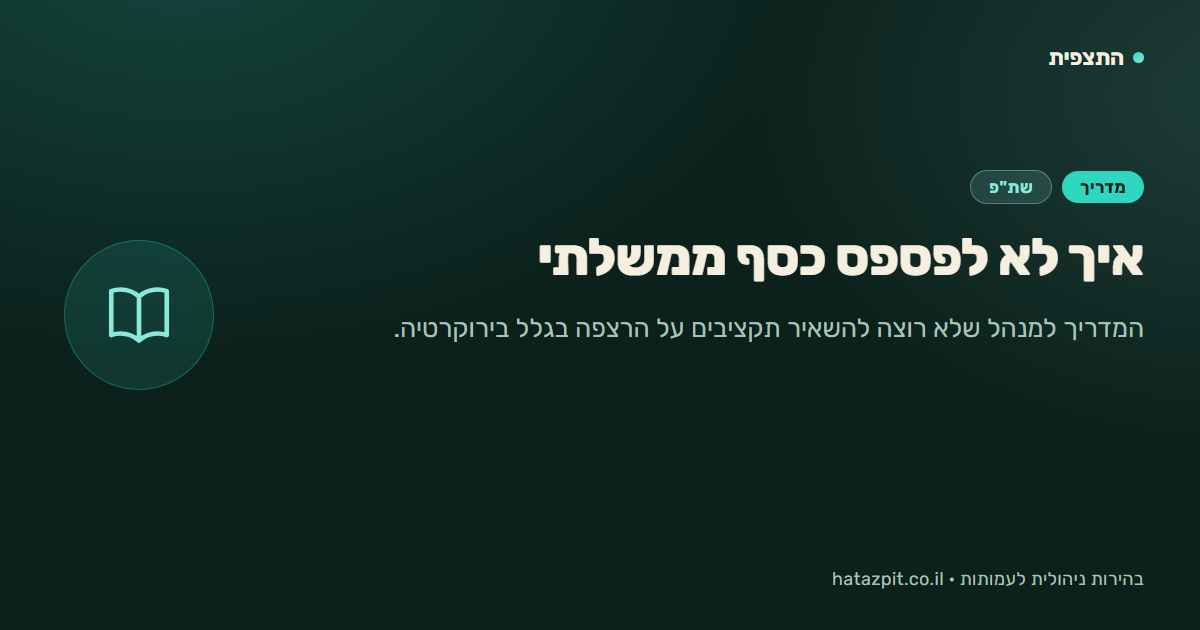
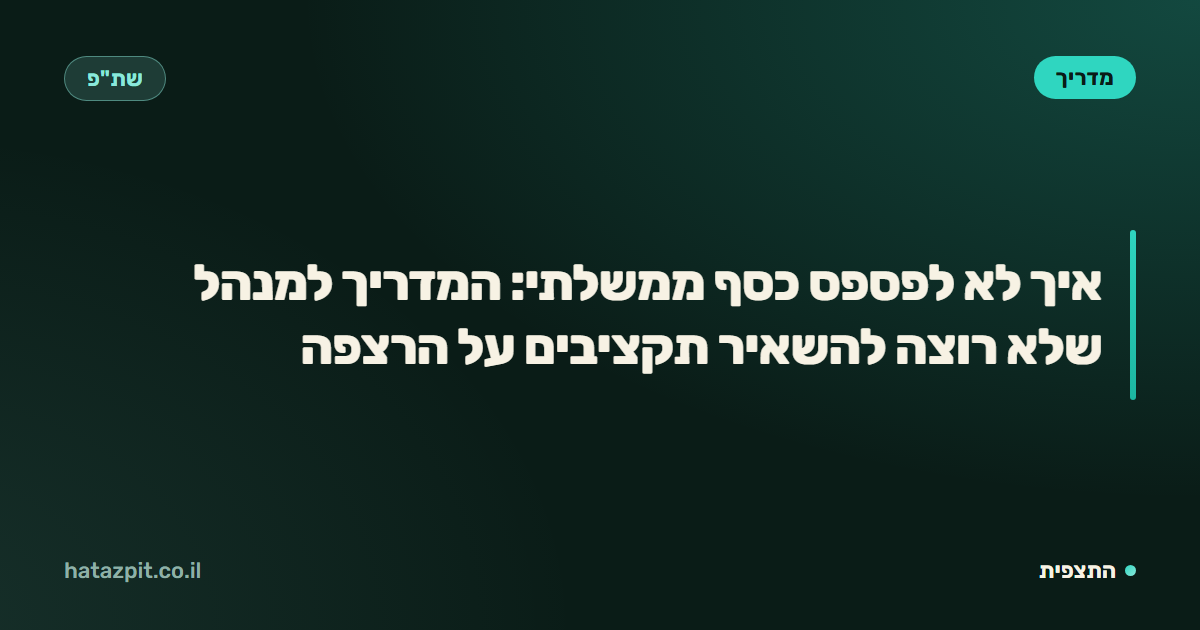
Redesign OG share cards with bigger, dominant title text
Drop the small badges/icon layout in favor of one large bold headline
that fills the card, since that's the split-second a scrolling reader
decides whether to stop. Also lengthen og:title to the full article
headline and collapse og:description to one uniform tagline across
pages, so the WhatsApp preview reads as one strong line instead of two
competing ones.

diff --git a/budget-guide.html b/budget-guide.html
@@ -7,8 +7,8 @@
 <meta name="description" content="חוברת קריאה חינמית: 10 האתגרים, 3 המנועים והשיטה לא לפספס תקציב ממשלתי שמגיע לעמותה שלכם.">
 <meta property="og:type" content="article">
 <meta property="og:url" content="https://hatazpit.co.il/budget-guide.html">
-<meta property="og:title" content="למה מנהלים מוותרים על תקציבים ממשלתיים — חוברת חינמית">
-<meta property="og:description" content="10 האתגרים ו-3 המנועים שגורמים למנהלים לוותר בלי לדעת — חוברת חינמית לקריאה שלמה.">
+<meta property="og:title" content="10 האתגרים ו-3 המנועים שגורמים למנהלים לוותר על תקציב שמגיע להם">
+<meta property="og:description" content="בהירות ניהולית לעמותות — מרכז ידע חינמי מבית התצפית">
 <meta property="og:image" content="https://hatazpit.co.il/assets/og/budget-guide.png">
 <meta property="og:image:width" content="1200">
 <meta property="og:image:height" content="630">

diff --git a/knowledge/how-to-apply-for-support.html b/knowledge/how-to-apply-for-support.html
@@ -7,8 +7,8 @@
 <meta name="description" content="מדריך מלא לעמותות: שמונה שלבים להגשת בקשת תמיכה מהרשות המקומית בהצלחה.">
 <meta property="og:type" content="article">
 <meta property="og:url" content="https://hatazpit.co.il/knowledge/how-to-apply-for-support.html">
-<meta property="og:title" content="איך מגישים בקשה לתמיכה מהרשות המקומית">
-<meta property="og:description" content="שמונה שלבים להגשה נכונה — מה חוזר בכל קריטריון, ואיך לא להיפסל.">
+<meta property="og:title" content="איך מגישים בקשה לתמיכה מהרשות המקומית — 8 שלבים להגשה נכונה בלי להיפסל">
+<meta property="og:description" content="בהירות ניהולית לעמותות — מרכז ידע חינמי מבית התצפית">
 <meta property="og:image" content="https://hatazpit.co.il/assets/og/how-to-apply-for-support.png">
 <meta property="og:image:width" content="1200">
 <meta property="og:image:height" content="630">

diff --git a/knowledge/tireless-manager-assistant.html b/knowledge/tireless-manager-assistant.html
@@ -7,8 +7,8 @@
 <meta name="description" content="איך מערכת סוכנים חכמה מנהלת את השטח, לומדת מהוויקי הארגוני, ומחזירה למנהל העמותה את השקט הנפשי.">
 <meta property="og:type" content="article">
 <meta property="og:url" content="https://hatazpit.co.il/knowledge/tireless-manager-assistant.html">
-<meta property="og:title" content="עוזר מנכ"ל שלא מתעייף">
-<meta property="og:description" content="איך מערכת סוכנים חכמה יכולה להחזיר למנכ"ל עמותה את השקט הנפשי.">
+<meta property="og:title" content="עוזר מנכ&quot;ל שלא מתעייף: כך מכניסים סדר ובהירות לעמותת חסד">
+<meta property="og:description" content="בהירות ניהולית לעמותות — מרכז ידע חינמי מבית התצפית">
 <meta property="og:image" content="https://hatazpit.co.il/assets/og/tireless-manager-assistant.png">
 <meta property="og:image:width" content="1200">
 <meta property="og:image:height" content="630">

diff --git a/knowledge/milionim-review.html b/knowledge/milionim-review.html
@@ -7,8 +7,8 @@
 <meta name="description" content="סקירה אמיתית מהשטח על מודל גיוס הכספים של חברת מליונים: המודל, העלויות, ולמי זה מתאים.">
 <meta property="og:type" content="article">
 <meta property="og:url" content="https://hatazpit.co.il/knowledge/milionim-review.html">
-<meta property="og:title" content="מיליונים — איך זה באמת עובד">
-<meta property="og:description" content="סקירה מהשטח על מודל גיוס תרומות בתשלום: העלות, הזמן, ולמי זה מתאים.">
+<meta property="og:title" content="מיליונים — איך זה באמת עובד? סקירה אמיתית מהשטח על מודל גיוס התרומות">
+<meta property="og:description" content="בהירות ניהולית לעמותות — מרכז ידע חינמי מבית התצפית">
 <meta property="og:image" content="https://hatazpit.co.il/assets/og/milionim-review.png">
 <meta property="og:image:width" content="1200">
 <meta property="og:image:height" content="630">

diff --git a/knowledge/missing-out-on-government-money.html b/knowledge/missing-out-on-government-money.html
@@ -7,8 +7,8 @@
 <meta name="description" content="המדריך למנהל שלא רוצה להשאיר תקציבים על הרצפה בגלל בירוקרטיה.">
 <meta property="og:type" content="article">
 <meta property="og:url" content="https://hatazpit.co.il/knowledge/missing-out-on-government-money.html">
-<meta property="og:title" content="איך לא לפספס כסף ממשלתי">
-<meta property="og:description" content="המדריך למנהל שלא רוצה להשאיר תקציבים על הרצפה בגלל בירוקרטיה.">
+<meta property="og:title" content="איך לא לפספס כסף ממשלתי: המדריך למנהל שלא רוצה להשאיר תקציבים על הרצפה">
+<meta property="og:description" content="בהירות ניהולית לעמותות — מרכז ידע חינמי מבית התצפית">
 <meta property="og:image" content="https://hatazpit.co.il/assets/og/missing-out-on-government-money.png">
 <meta property="og:image:width" content="1200">
 <meta property="og:image:height" content="630">

diff --git a/knowledge/performance-report.html b/knowledge/performance-report.html
@@ -7,8 +7,8 @@
 <meta name="description" content="מה זה דוח ביצוע, למה הוא חשוב, ואיך מכינים אותו נכון — כולל צ'ק ליסט.">
 <meta property="og:type" content="article">
 <meta property="og:url" content="https://hatazpit.co.il/knowledge/performance-report.html">
-<meta property="og:title" content="חשיבות דו"ח ביצוע">
-<meta property="og:description" content="איך מכינים דוח שמחבר בין התקציב לפעילות בשטח, ולמה זה תנאי סף להמשך תמיכה.">
+<meta property="og:title" content="דוח ביצוע לעמותה — איך מכינים אותו נכון, ולמה זה תנאי סף להמשך תמיכה">
+<meta property="og:description" content="בהירות ניהולית לעמותות — מרכז ידע חינמי מבית התצפית">
 <meta property="og:image" content="https://hatazpit.co.il/assets/og/performance-report.png">
 <meta property="og:image:width" content="1200">
 <meta property="og:image:height" content="630">

diff --git a/knowledge/data-security.html b/knowledge/data-security.html
@@ -7,8 +7,8 @@
 <meta name="description" content="אבטחת מידע ופרטיות לעמותות: מדריך למנהל שלא רוצה להתעורר לסיוט דיגיטלי.">
 <meta property="og:type" content="article">
 <meta property="og:url" content="https://hatazpit.co.il/knowledge/data-security.html">
-<meta property="og:title" content="מי שומר על הבית שלכם?">
-<meta property="og:description" content="אבטחת מידע ופרטיות לעמותות — איך יודעים אם המוסד שלכם חשוף.">
+<meta property="og:title" content="מי שומר על הבית שלכם? אבטחת מידע ופרטיות לעמותות שאסור להזניח">
+<meta property="og:description" content="בהירות ניהולית לעמותות — מרכז ידע חינמי מבית התצפית">
 <meta property="og:image" content="https://hatazpit.co.il/assets/og/data-security.png">
 <meta property="og:image:width" content="1200">
 <meta property="og:image:height" content="630">

diff --git a/knowledge/peach-review.html b/knowledge/peach-review.html
@@ -7,8 +7,8 @@
 <meta name="description" content="האם PEACH היא המערכת שמנהלי עמותות באמת צריכים? סקירה דרך שבעת הכאבים של השטח.">
 <meta property="og:type" content="article">
 <meta property="og:url" content="https://hatazpit.co.il/knowledge/peach-review.html">
-<meta property="og:title" content="PEACH — סקירה מעמיקה">
-<meta property="og:description" content="בדיקה של מערכת CRM לעמותות דרך שבעת הכאבים האמיתיים של מנהלים.">
+<meta property="og:title" content="PEACH — האם זו המערכת שמנהלי עמותות באמת צריכים? סקירה מעמיקה">
+<meta property="og:description" content="בהירות ניהולית לעמותות — מרכז ידע חינמי מבית התצפית">
 <meta property="og:image" content="https://hatazpit.co.il/assets/og/peach-review.png">
 <meta property="og:image:width" content="1200">
 <meta property="og:image:height" content="630">

diff --git a/knowledge/vaad-amuta.html b/knowledge/vaad-amuta.html
@@ -7,8 +7,8 @@
 <meta name="description" content="מה זה אומר להיות חבר ועד בעמותה בפועל: שלושת תחומי האחריות, ואיך זה נראה ביום-יום.">
 <meta property="og:type" content="article">
 <meta property="og:url" content="https://hatazpit.co.il/knowledge/vaad-amuta.html">
-<meta property="og:title" content="להיות חבר ועד עמותה">
-<meta property="og:description" content="מה זה אומר בפועל, ושלושת תחומי האחריות שכל חבר ועד צריך להכיר.">
+<meta property="og:title" content="להיות חלק מהלב הפועם: מה זה אומר להיות חבר ועד בעמותה?">
+<meta property="og:description" content="בהירות ניהולית לעמותות — מרכז ידע חינמי מבית התצפית">
 <meta property="og:image" content="https://hatazpit.co.il/assets/og/vaad-amuta.png">
 <meta property="og:image:width" content="1200">
 <meta property="og:image:height" content="630">

diff --git a/knowledge/section-46.html b/knowledge/section-46.html
@@ -7,8 +7,8 @@
 <meta name="description" content="מה זה סעיף 46, למה זה חשוב לגיוס תרומות, ואיך משיגים אותו — כולל צ'ק ליסט מוכנות.">
 <meta property="og:type" content="article">
 <meta property="og:url" content="https://hatazpit.co.il/knowledge/section-46.html">
-<meta property="og:title" content="סעיף 46">
-<meta property="og:description" content="מה זה נותן לתורמים שלכם, ואיך יודעים אם אתם מוכנים להגיש.">
+<meta property="og:title" content="סעיף 46 — מה זה נותן לתורמים שלכם, ואיך יודעים אם אתם מוכנים להגיש">
+<meta property="og:description" content="בהירות ניהולית לעמותות — מרכז ידע חינמי מבית התצפית">
 <meta property="og:image" content="https://hatazpit.co.il/assets/og/section-46.png">
 <meta property="og:image:width" content="1200">
 <meta property="og:image:height" content="630">

diff --git a/knowledge/orderly-management.html b/knowledge/orderly-management.html
@@ -7,8 +7,8 @@
 <meta name="description" content="מה זה ניהול תקין, למה זה חשוב, וצ'ק ליסט מלא למה שחייב להיות מסודר.">
 <meta property="og:type" content="article">
 <meta property="og:url" content="https://hatazpit.co.il/knowledge/orderly-management.html">
-<meta property="og:title" content="ניהול תקין">
-<meta property="og:description" content="מה זה, למה זה חשוב, ומה חייב להיות מסודר כדי לעמוד בזה.">
+<meta property="og:title" content="ניהול תקין לעמותות — מה זה, למה זה חשוב, ואיך משיגים אותו">
+<meta property="og:description" content="בהירות ניהולית לעמותות — מרכז ידע חינמי מבית התצפית">
 <meta property="og:image" content="https://hatazpit.co.il/assets/og/orderly-management.png">
 <meta property="og:image:width" content="1200">
 <meta property="og:image:height" content="630">
